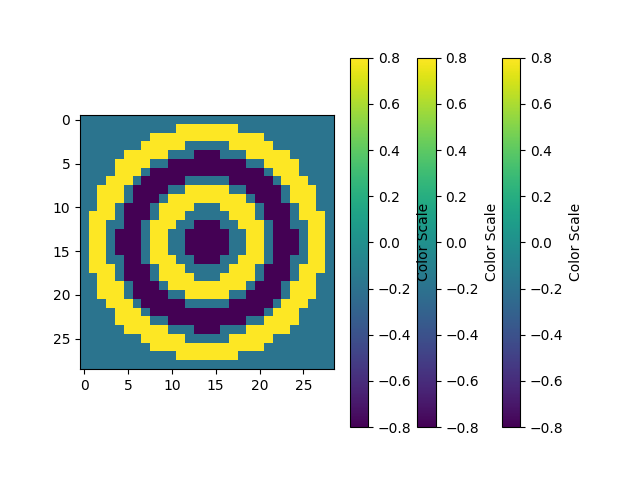
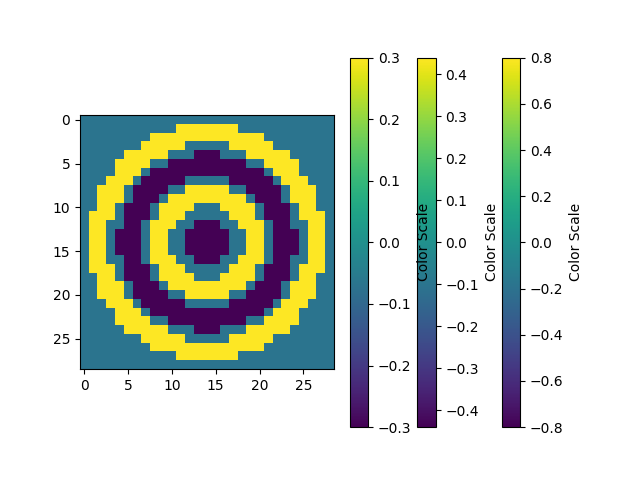
3 SCNNs in parallel + MUX (skirnir)

diff --git a/convolution/three_scnns.py b/convolution/three_scnns.py
@@ -215,9 +215,9 @@ if __name__ == '__main__':
 
 
     print("Generating Kernel ... ")
-    f_kernel = make_whole_kernel(args.ip_out, args.ks, dim.hs, args.w_scaler, args.thickness, 2)
-    m_kernel = make_whole_kernel(args.ip_out, args.ks, dim.hs, args.w_scaler, args.thickness, 2)
-    s_kernel = make_whole_kernel(args.ip_out, args.ks, dim.hs, args.w_scaler, args.thickness, 2)
+    f_kernel = make_whole_kernel(args.ip_out, args.ks, dim.hs, args.w_scaler, args.thickness, 2.00)
+    m_kernel = make_whole_kernel(args.ip_out, args.ks, dim.hs, args.w_scaler, args.thickness, 1.10)
+    s_kernel = make_whole_kernel(args.ip_out, args.ks, dim.hs, args.w_scaler, args.thickness, 0.75)
 
     print("Configuring Infrastructure ... ")
     SUB_WIDTH = 16
@@ -298,7 +298,7 @@ if __name__ == '__main__':
                      'i_offset': 0.0
                      }
 
-    m_cell_params = {'tau_m': 8,
+    m_cell_params = {'tau_m': 11,
                      'tau_syn_E': 0.1,
                      'tau_syn_I': 0.1,
                      'v_rest': -65.0,
